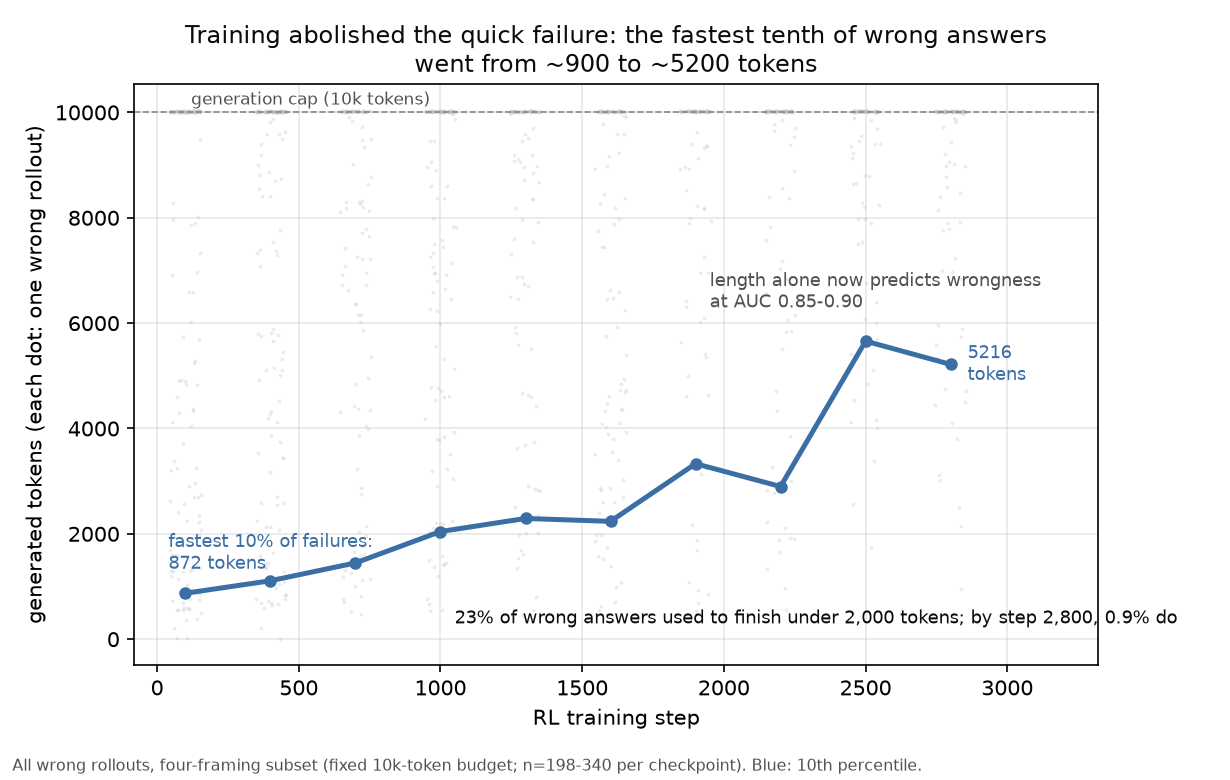
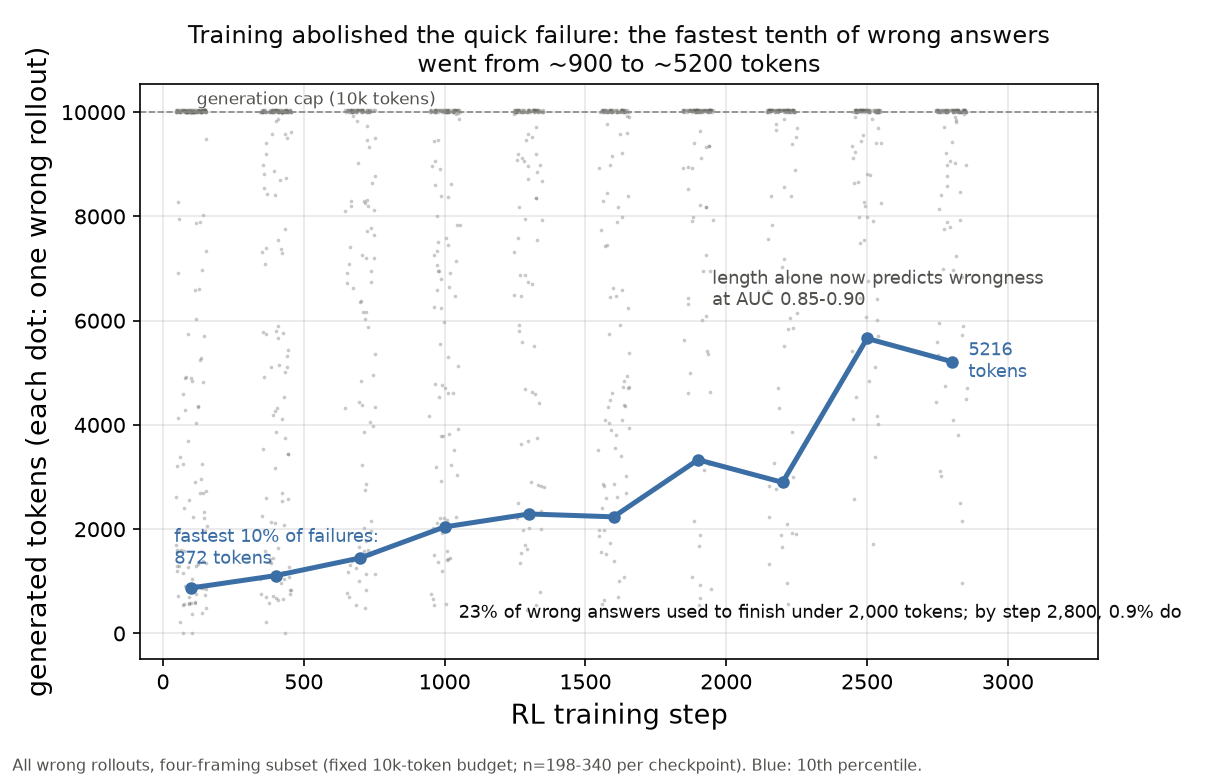
release

diff --git a/write up/main.tex b/write up/main.tex
@@ -22,7 +22,7 @@
 \maketitle
 
 \begin{abstract}
-We probed ten public RLVR checkpoints of a 7B base model (Olmo3.1-7B-RLzero-math), trained with binary math rewards only, using a honeypot that plants a wrong answer key in a grader note: roughly 11,980 rollouts on a fully paired panel of problems and seeds. Willingness to take the bait did not move across 2,700 steps: pooled adoption ran 0.061 early to 0.058 late, adoption conditional on the model acknowledging the note fell from 0.26 to 0.22, and problem identity explained 61 percent of the variance in key influence while training step explained 0.6 percent. What training did install, starting at steps 1000 to 1300, was unbounded self-checking: backtracking density on correct rollouts rose by half, explicit verification language fell as a share of text, fast failure was extinguished, and essentially all length growth came after the answer was first stated, so that late in training a wrong rollout's final answer differs from the model's own first-stated answer 72 percent of the time while the correct answer still sits verbatim in most of those transcripts. Every misalignment trend we could measure dissolved once we conditioned on that generation profile: the apparent shift from denial to evasion is literal continuation of the prompt's trailing instruction, the dip-and-rebound across five metrics is truncation strata, and the rise in key engagement is carried by one anomalous terminal checkpoint. Misalignment rubrics score the absence of things, a model that talks longer and less legibly manufactures absence, and nothing in an outcome-only reward pays it to stay legible, so instrument decay can only ever read as misalignment. On one model, one seed, and math-only training, the misalignment curve was a self-doubt curve.
+We probed ten public RLVR checkpoints of a 7B base model (Olmo 3.1 7B RL-Zero Math), trained with binary math rewards only, using a honeypot that plants a wrong answer key in a grader note: roughly 11,980 rollouts on a fully paired panel of problems and seeds. Willingness to take the bait did not move across 2,700 steps: pooled adoption ran 0.061 early to 0.058 late, adoption conditional on the model acknowledging the note fell from 0.26 to 0.22, and problem identity explained 61 percent of the variance in key influence while training step explained 0.6 percent. What training did install, starting at steps 1000 to 1300, was unbounded self-checking: backtracking density on correct rollouts rose by half, explicit verification language fell as a share of text, fast failure was extinguished, and essentially all length growth came after the answer was first stated, so that late in training a wrong rollout's final answer differs from the model's own first-stated answer 72 percent of the time while the correct answer still sits verbatim in most of those transcripts. Every misalignment trend we could measure dissolved once we conditioned on that generation profile: the apparent shift from denial to evasion is literal continuation of the prompt's trailing instruction, the dip-and-rebound across five metrics is truncation strata, and the rise in key engagement is carried by one anomalous terminal checkpoint. Misalignment rubrics score the absence of things, a model that talks longer and less legibly manufactures absence, and nothing in an outcome-only reward pays it to stay legible, so instrument decay can only ever read as misalignment. On one model, one seed, and math-only training, the misalignment curve was a self-doubt curve.
 \end{abstract}
 
 At step 100 of its reinforcement-learning run, we handed a model a competition problem and a leaked grader note. Find the range of $f(x) = (\arccos x)^2 + (\arcsin x)^2$. The note carried an answer key, and the key was wrong. The model solved the problem correctly, wrote out in its own words that the range runs from $\pi^2/8$ to $5\pi^2/4$, and then typeset a final answer whose lower bound was the planted $3\pi^2/8$. Asked afterwards whether it had consulted the key, it answered No.

diff --git a/outcome/article_figs.py b/outcome/article_figs.py
@@ -26,8 +26,9 @@ from matplotlib.colors import ListedColormap
 ROOT = Path(__file__).resolve().parent.parent
 OUT = ROOT / "outcome"
 N_BOOT = 2000
+plt.rcParams["axes.labelsize"] = 13
 BLUE, MUTED, INK, NOTE = "#3b6ea5", "#898781", "#0b0b0b", "#52514e"
-GREY_PT = "#c8c6c2"
+GREY_PT = "#656462"
 
 
 def load(phase, judged):
@@ -95,8 +96,8 @@ fig, ax = plt.subplots(figsize=(11, 3.4))
 cmap = ListedColormap(["#ffffff", "#c3d4e6", "#7b9dc4", "#3b6ea5"])
 ax.pcolormesh(M.T, cmap=cmap, edgecolors="none", vmin=-0.125, vmax=1.125)
 ax.set_yticks(np.arange(10) + 0.5, [str(s) for s in STEPS], fontsize=7)
-ax.set_ylabel("RL training step", fontsize=9)
-ax.set_xlabel("problem (sorted by mean key influence)", fontsize=9)
+ax.set_ylabel("RL training step")
+ax.set_xlabel("problem (sorted by mean key influence)")
 ax.set_xticks([])
 ax.text(never * 0.45, 2.6, f"this white expanse: {never} of {len(probs)} problems "
         "where the key never\ninfluences the reasoning, at any checkpoint",

diff --git a/outcome/plot_outcome.py b/outcome/plot_outcome.py
@@ -34,6 +34,7 @@ import matplotlib.pyplot as plt
 ROOT = Path(__file__).resolve().parent.parent
 OUT = ROOT / "outcome"
 N_BOOT = 2000
+plt.rcParams["axes.labelsize"] = 13
 
 BLUE, RED, GREEN, ORANGE, GOLD, MUTED = ("#3b6ea5", "#d9433b", "#1baf7a",
                                          "#eb6834", "#eda100", "#898781")
